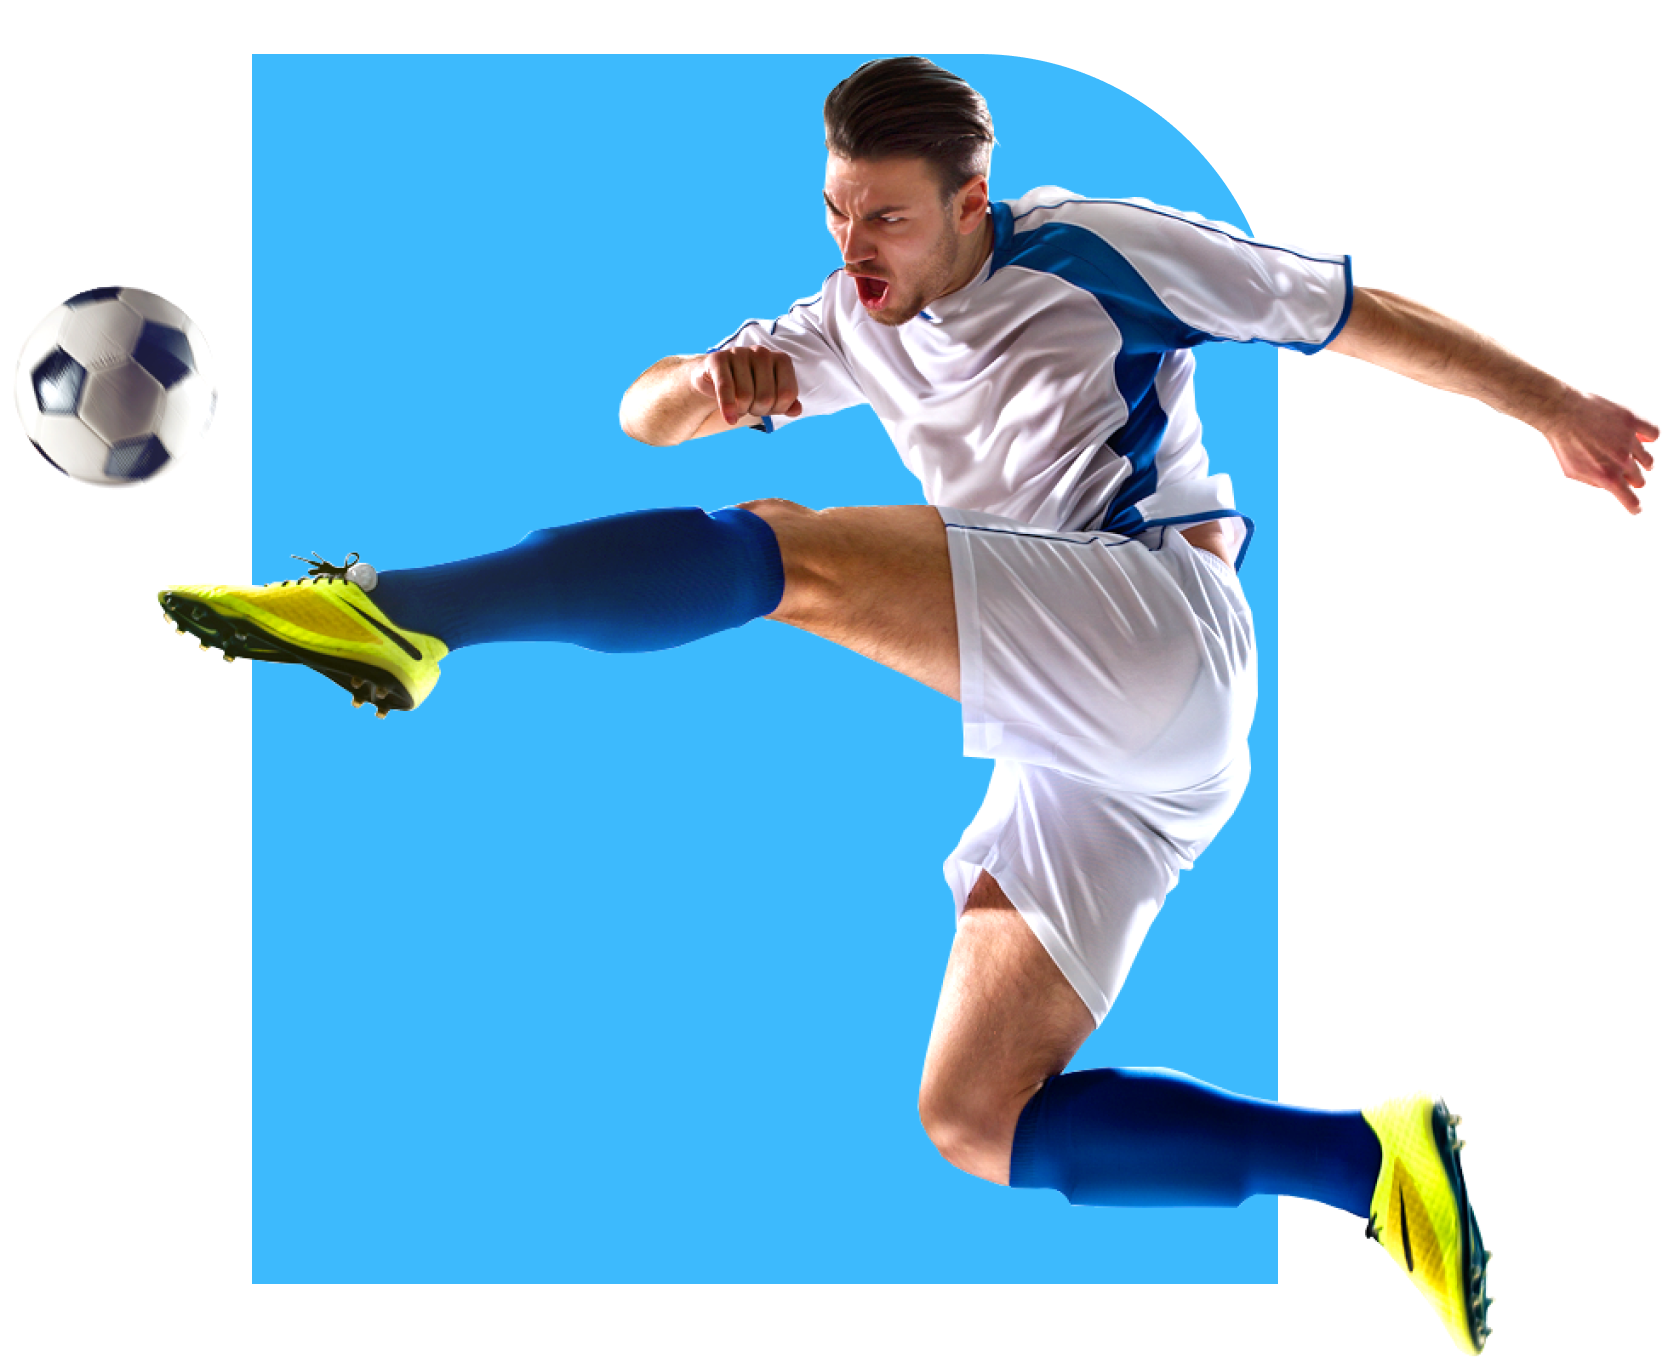
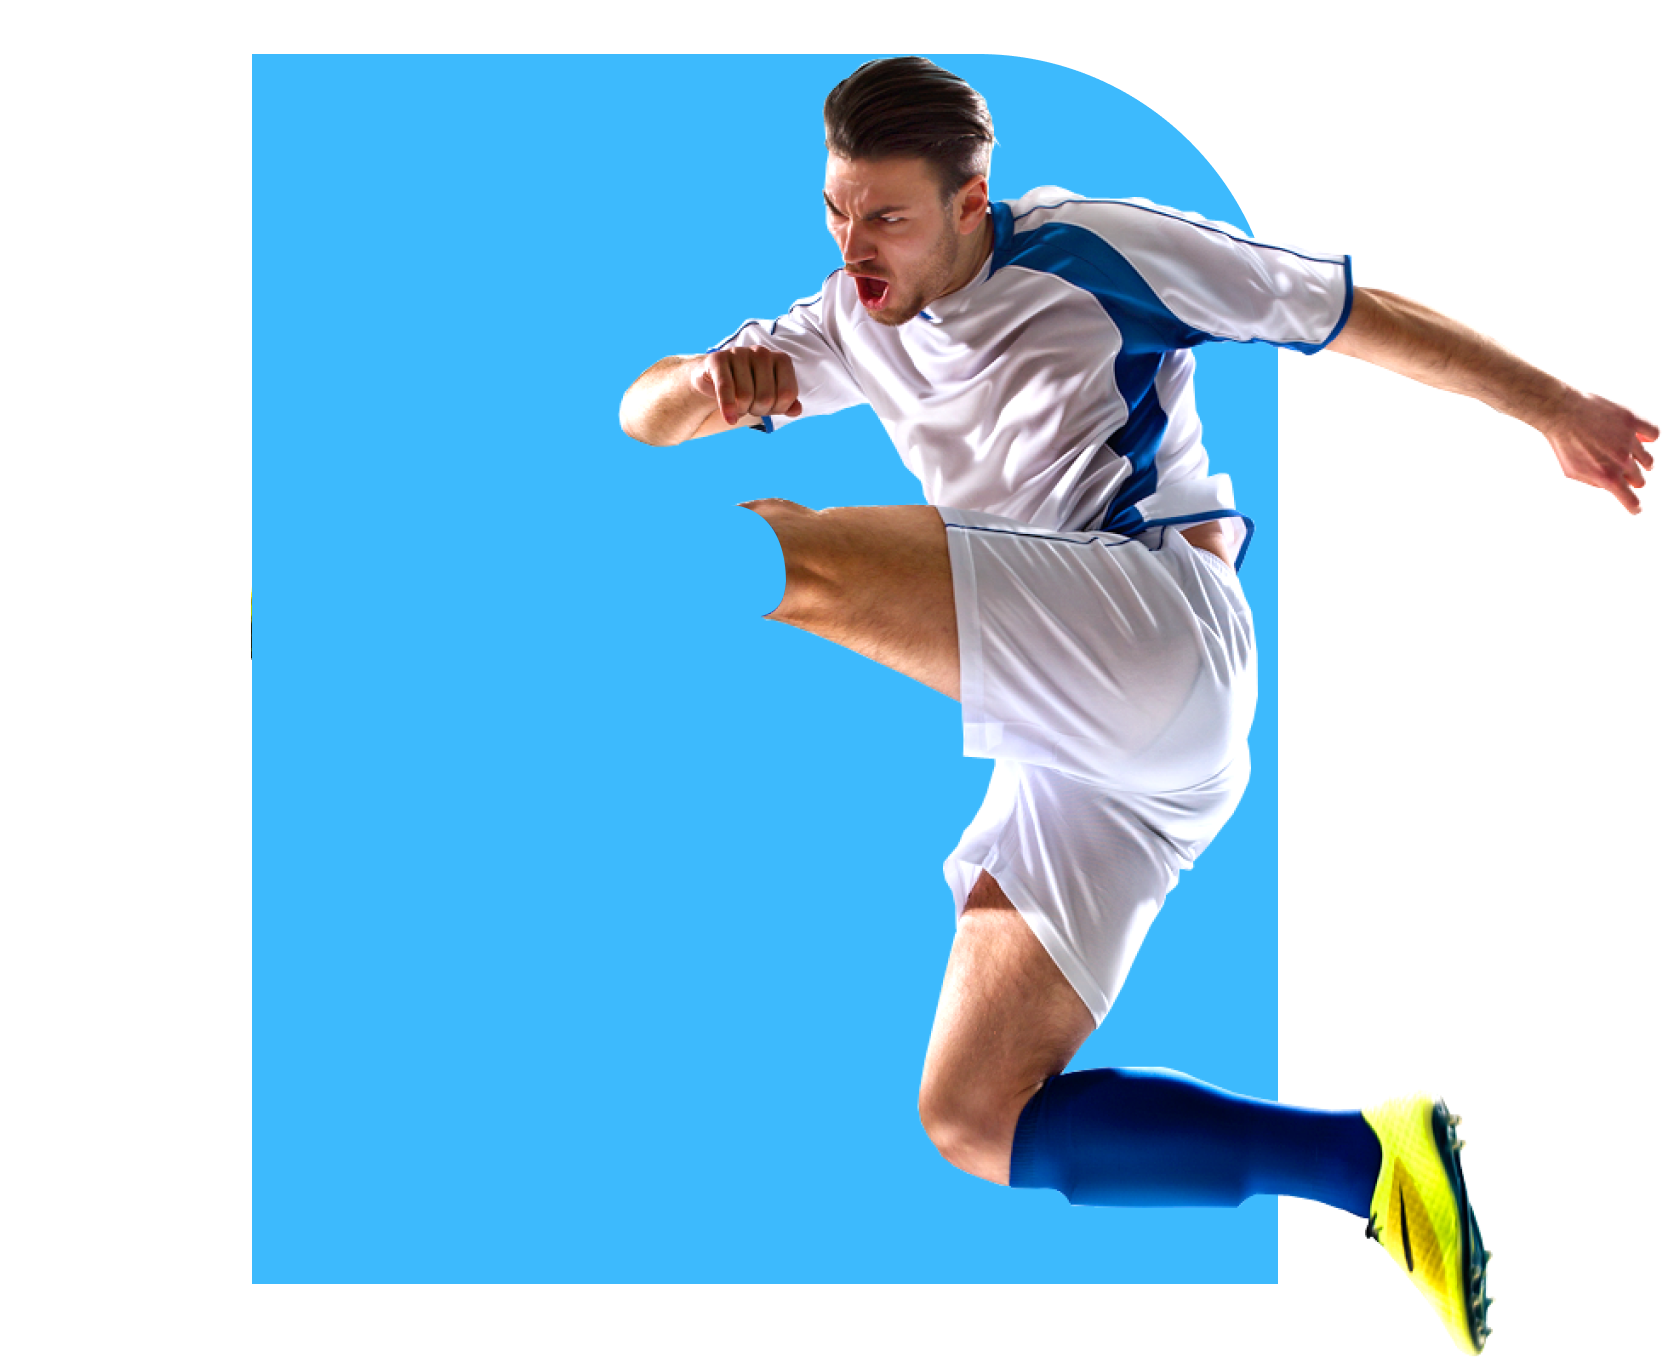
Header Section Complete

Changed region(s): [[0.0935, 0.3684, 0.4673, 0.5219], [0.0, 0.1842, 0.1246, 0.3684]]

diff --git a/Style/Styles.css b/Style/Styles.css
@@ -1,4 +1,186 @@
 body{
+    width: 100%;
+    height: auto;
     font-family: 'Poppins', sans-serif;
+    margin: 0;
+    padding: 0;
+
+}
+
+/* <!-- Header Section Start Here ------------------------------------------------> */
+header{
+    background-color: #2d25a0;
+    width: 100%;
+    height: 677px;
+    justify-content: center;
+    align-items: center;
+}
+
+nav{
+    width: 100%;
+    height: 100px;
+    display: flex;
+    justify-content: center;
+    align-items: center;
     
 }
+
+.navigation-bar{
+    width: 73%;
+    height: 44px;
+    display: flex;
+    align-items: center;
+    justify-content: space-between;
+}
+
+.navigation-content a{
+    text-decoration: none;
+    color: white;
+    font-size: 16px;
+    font-weight: 5000;
+    margin-right: 36px;
+    transition: ease-out 0.3s;
+}
+
+.navigation-content a:hover{
+    color: #E02C6D;
+}
+
+
+/* Login Button */
+.login-button a{
+    text-decoration: none;
+    color: white;
+    font-size: 16px;
+    font-weight: 5000;
+    padding: 10px 24px 10px 24px;
+    outline: none;
+    transition: ease-out 0.3s;
+    position: relative;
+    z-index: 1;
+    border-radius: 6px;
+    border: 3px solid rgb(0, 217, 255);
+}
+
+.login-button a:hover{
+    color: black;
+    cursor: pointer;
+    letter-spacing: 1px;
+}
+
+
+.login-button a:before{
+    transition: 0.3s all ease;
+    top: 0;
+    left: 50%;
+    right: 50%;
+    bottom: 0;
+    opacity: 0;
+    content: "";
+    position: absolute;
+    background-color: rgb(0, 217, 255);
+}
+
+
+.login-button a:hover:before{
+    transition: 0.3s all ease;
+    left: 0;
+    right: 0;
+    opacity: 1;
+    z-index: -1;
+}
+
+
+
+
+
+/* Top Section Here */
+.Top-Section-with-img{
+    padding-top: 10px;
+    width: 100%;
+    display: grid;
+    grid-template-columns: repeat(2, 1fr);
+    grid-column-gap: 20px;
+}
+
+.Top-Text-section{
+    margin-left: 25%;
+}
+
+.Top-Text-section h1{
+    padding-right: 62px;
+    font-size: 64px;
+    font-weight: 700;
+    color: white;
+}
+
+
+.Top-Text-section a{
+    border-radius: 4px;
+    background-color:#E02C6D;
+    text-decoration: none;
+    color: white;
+    font-size: 16px;
+    font-weight: 7000;
+    padding: 10px 24px 10px 24px;   
+    transition: ease-out 0.3s;
+}
+.Top-Text-section a:hover{
+    box-shadow: inset 200px 0 0 0 rgb(0, 217, 255);
+    color: black;
+    cursor: pointer;
+    letter-spacing: 1px;
+}
+
+/* Top Image Section */
+.Top-image-section{
+    position: relative;
+    margin-right: 29%;
+}
+
+.Top-image-section img{
+    width: 100%;
+    height: auto;
+}
+
+
+header:hover .football-man{
+    transform: rotate(30deg);
+    transition: transform 0.5s ease-in ;
+    transform-origin: top;
+}
+
+.football-man{
+    width: 85px;
+    height: auto;
+    position: absolute;
+    top: 165px;
+    left: 213px;
+}
+
+.ball{
+    left: 74px;
+    top: 281px;
+    position: absolute;
+    height: 65px;
+    width: 65px;
+}
+
+header:hover .ball{
+    transform: translatey(-400px) translatex(-1000px);
+    transition: transform 2s ease-out .5s;
+}
+
+
+
+
+
+
+
+
+
+
+
+
+
+

diff --git a/index.html b/index.html
@@ -10,7 +10,7 @@
     <!-- Google Fonts -->
     <link rel="preconnect" href="https://fonts.googleapis.com">
     <link rel="preconnect" href="https://fonts.gstatic.com" crossorigin>
-    <link href="https://fonts.googleapis.com/css2?family=Poppins&display=swap" rel="stylesheet">
+    <link href="https://fonts.googleapis.com/css2?family=Poppins:wght@500&display=swap" rel="stylesheet">
     <!-- Favicon -->
     <link rel="shortcut icon" href="images/Favicon.png" type="image/x-icon">
     <!-- CSS Stylesheet -->
@@ -19,6 +19,47 @@
 </head>
 
 <body>
+
+    <!-- Header Section Start Here ---------------------------------------->
+    <header>
+        <!-- Navigation Bar with Login Button -->
+        <nav>
+            <div class="navigation-bar">
+                <div class="navigation-content">
+                    <a target="_blank" href="">Home</a>
+                    <a target="_blank" href="">Clubs</a>
+                    <a target="_blank" href="">World Cup 2023</a>
+                    <a target="_blank" href="">Upcoming Matches</a>
+                    <a target="_blank" href="">Contact</a>
+                </div>
+                <div class="login-button">
+                    <a target="_blank" href="#"> <i class="fas fa-sign-in-alt"></i> Login</a>
+                </div>
+            </div>
+        </nav>
+
+        <!-- Top Section -->
+        <section class="Top-Section-with-img">
+            <div class="Top-Text-section">
+                <h1>Conmebol Copa America 2021</h1>
+                <a href="">Watch Live <i class="fas fa-arrow-right"></i></a>
+            </div>
+
+
+            <div class="Top-image-section">
+                <img src="images/banner.png" alt="">
+                <div class="football-man">
+                    <img src="images/Man.png" alt="">
+                </div>
+                <div class="ball">
+                    <img src="images/ball.png" alt="">
+                </div>
+            </div>
+        </section>
+    </header>
+
+
+
 
 
 
